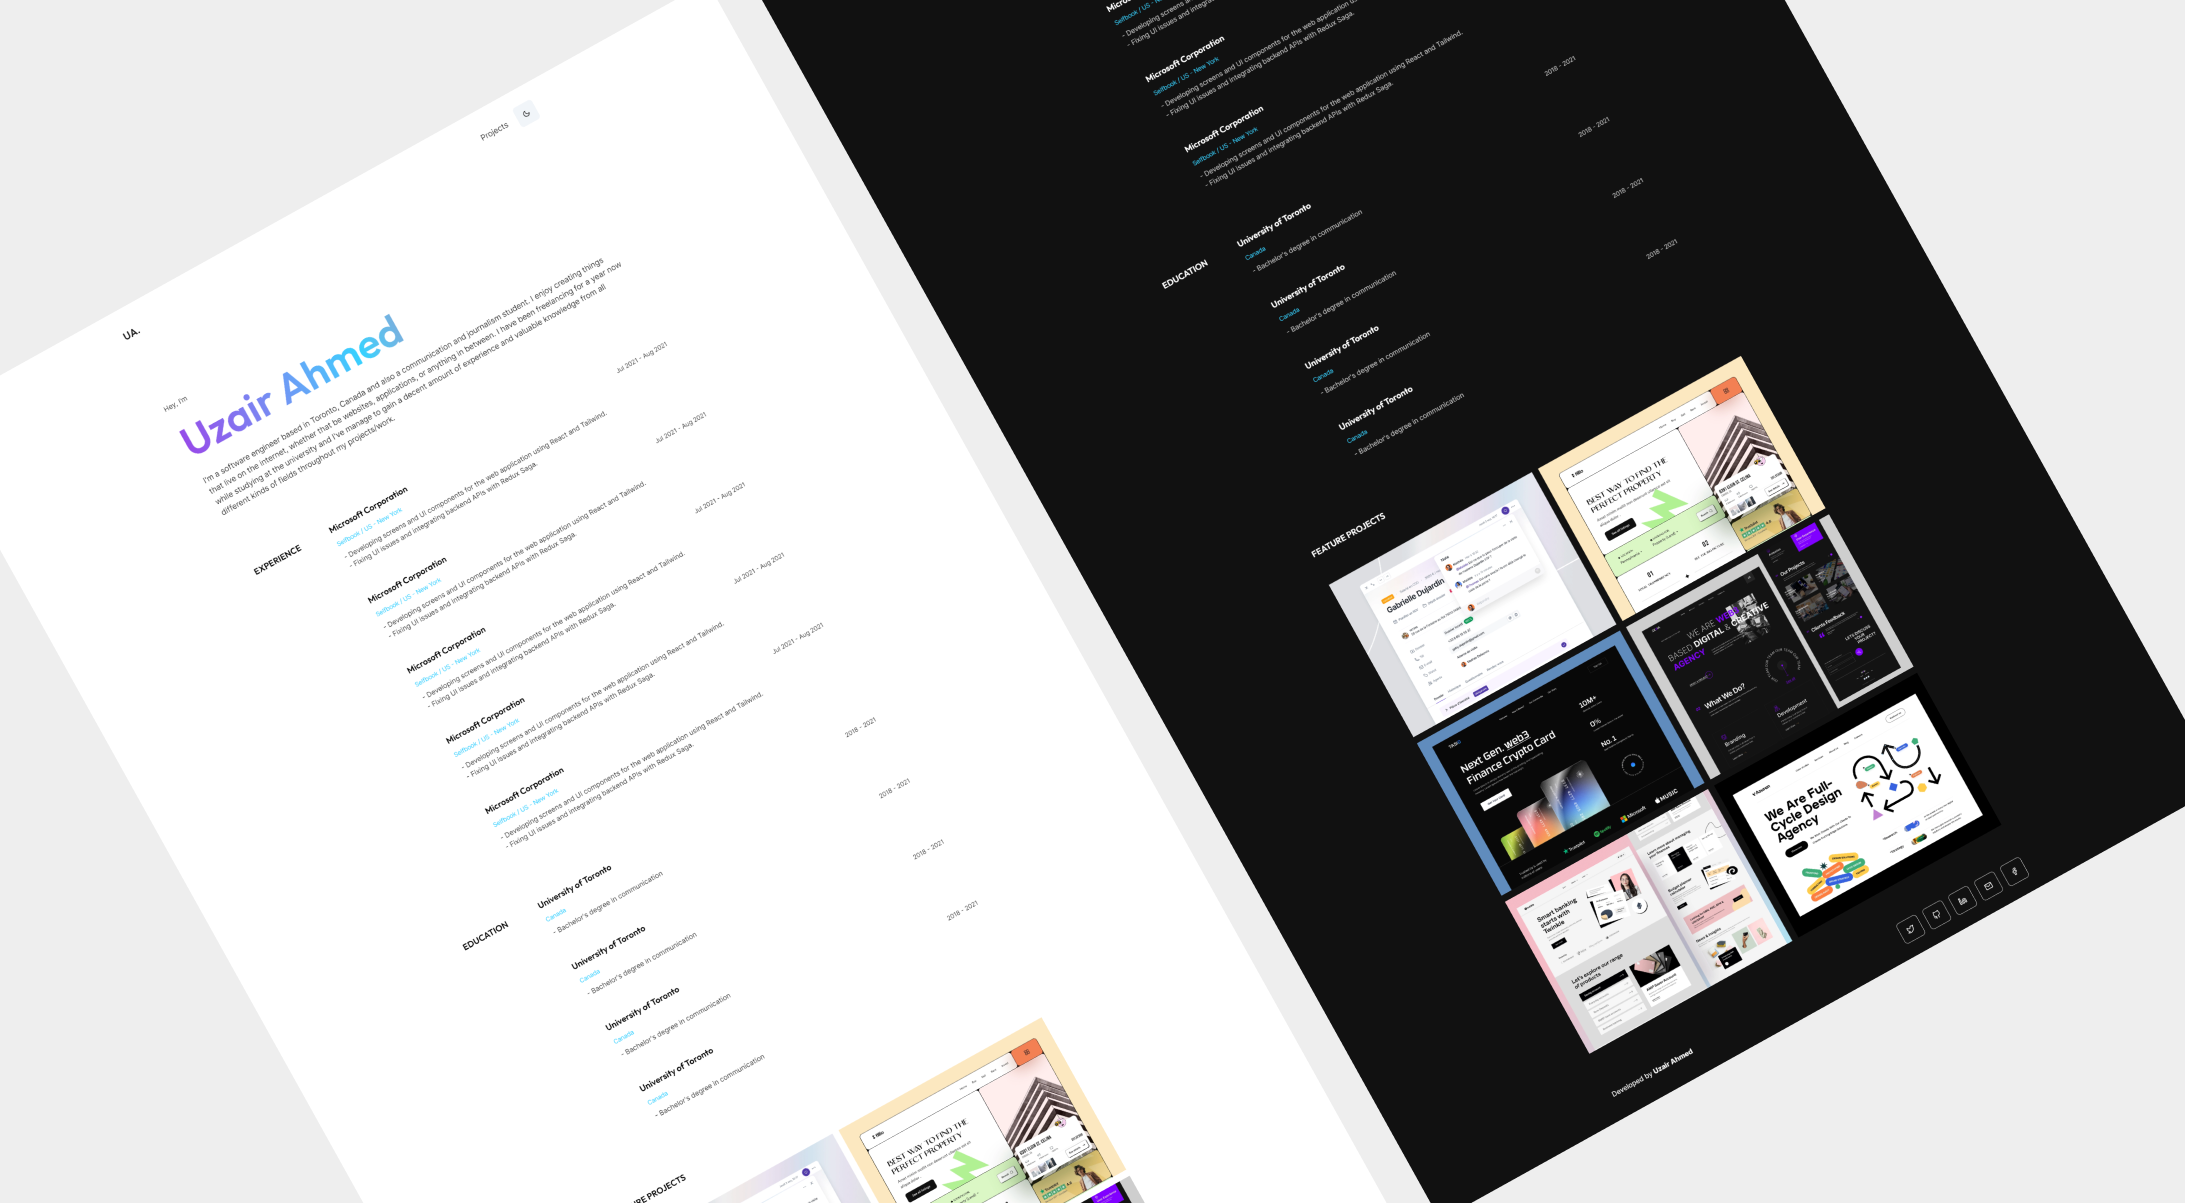
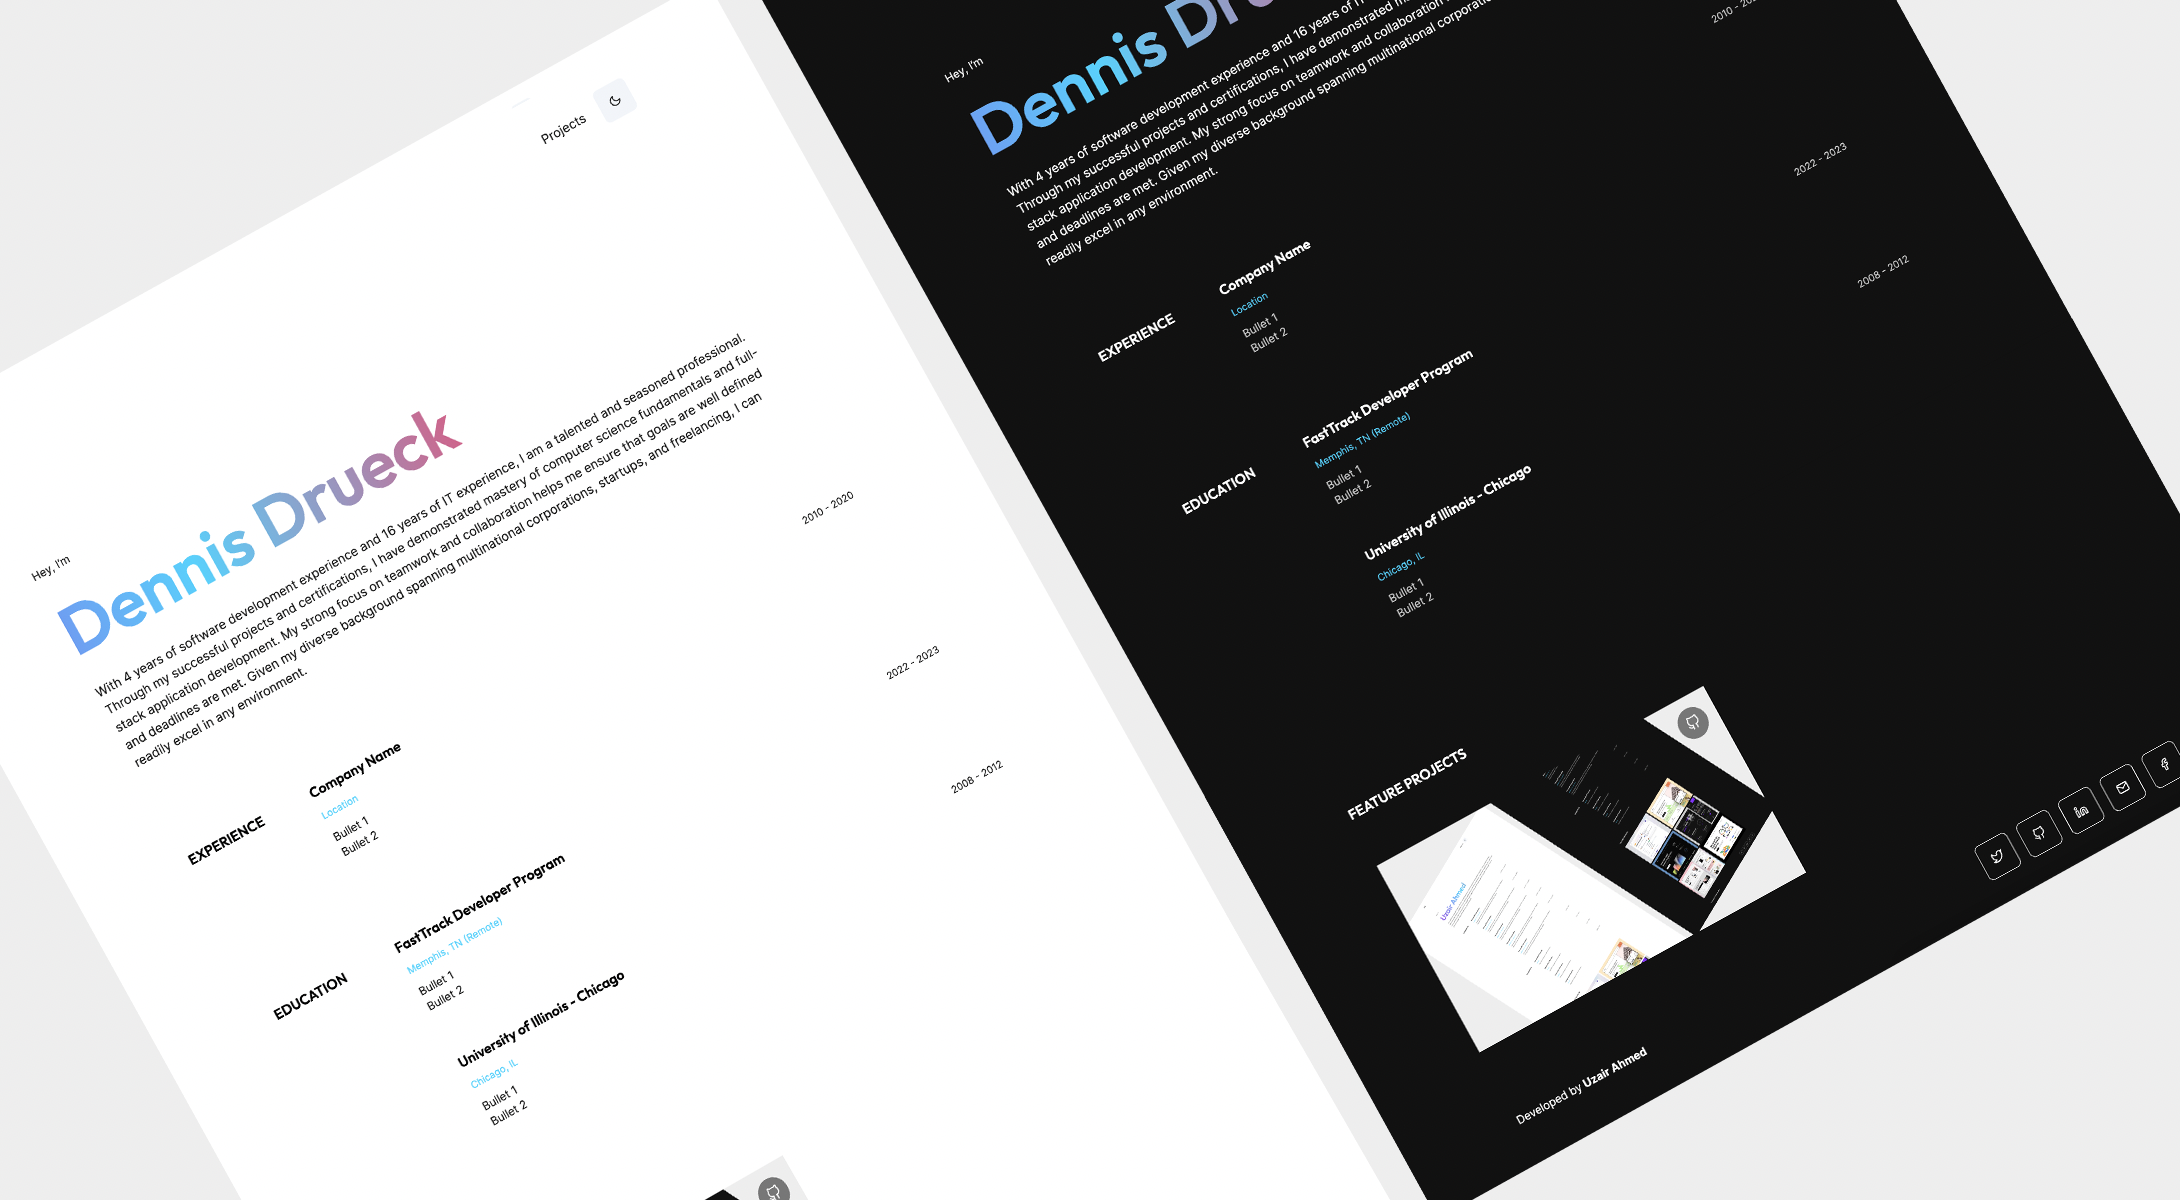
feat: updated info, projects

diff --git a/src/data/info.ts b/src/data/info.ts
@@ -7,28 +7,74 @@ export const info = {
 
     experience: [
         {
-            name: "Company Name",
-            location: "Location",
-            startDate: "2010",
-            endDate: "2020",
-            description: ["Bullet 1", "Bullet 2"],
+            title: "Full-Stack Developer",
+            name: "Self-Employed",
+            location: "Naperville, IL",
+            startDate: "10/21",
+            endDate: "Present",
+            description: [
+                "Distill requirements in collaboration with product teams, identifying highest value features to speed development.",
+                "Facilitate millions of dollars in revenue and top SERP rankings via optimized applications.",
+                "Iterate rapidly with Agile sprints to complete features incrementally.",
+                "Implement CI/CD pipelines with Git and GitHub to easily deploy builds in seconds",
+                "Maximize code reuse by following proven standards: DRY, SOLID, YAGNI.",
+                "Resolve bottlenecks and bugs rapidly using DevTools for debugging and performance testing.",
+            ],
+        },
+        {
+            title: "SaaS Interactivity Specialist",
+            name: "Text2Drive",
+            location: "Chicago, IL",
+            startDate: "2/19",
+            endDate: "10/21",
+            description: [
+                "Restructured widget deployment pipeline and overhauled assets using JavaScript, HTML, CSS and Bootstrap, drastically improving client and user experiences.",
+                "Reduced widget time-to-delivery by 50% after increasing component reusability and expediting requirements discovery with a hands-on, fail-fast approach.",
+                "Facilitated over 5 million dollars in yearly client revenue through expedient deployment and consistent user engagement.",
+                "Conserved 40 work-hours per month by automating toilsome tasks with Python and Selenium.",
+                "Enhanced client-experience with well-prepared proposals, backed by subject-matter expertise, analytics and market research.",
+                "Eliminated cross-company deployment issues through research and collaboration.",
+            ],
         },
     ],
 
     education: [
         {
-            name: "FastTrack Developer Program",
-            location: "Memphis, TN (Remote)",
-            startDate: "2022",
-            endDate: "2023",
-            description: ["Bullet 1", "Bullet 2"],
+            title: "FastTrack Java Program",
+            name: "Cook Systems",
+            location: "Memphis, TN",
+            startDate: "12/22",
+            endDate: "Present",
+            description: [
+                "Concentrated Java Frameworks and developer tools training",
+            ],
         },
         {
+            title: "Bachelor of Fine Arts",
             name: "University of Illinois - Chicago",
             location: "Chicago, IL",
-            startDate: "2008",
-            endDate: "2012",
-            description: ["Bullet 1", "Bullet 2"],
+            startDate: "08/08",
+            endDate: "05/12",
+            description: [
+                "Studied Web Design, Design Thinking, Perception Theory, Visual Communication",
+            ],
+        },
+    ],
+
+    certifications: [
+        {
+            title: "FreeCodeCamp.org",
+            location: "San Francisco, CA",
+            startDate: "06/21",
+            endDate: "12/22",
+            description: [
+                "Back-End and APIs: Express.js, MongoDB, Node.js",
+                "Relational Databases: PostgreSQL, Bash",
+                "Front-End Libraries: React.js, Redux, jQuery, Bootstrap",
+                "JavaScript: Data Structures and Algorithms",
+                "Python: Scientific Computing",
+                "Responsive Web Development: HTML5, CSS3",
+            ],
         },
     ],
 
@@ -44,7 +90,18 @@ export const info = {
             isFeatured: true,
             thumbnail: "/assets/images/astro-portfolio.png",
             githubUrl: "https://github.com/d5732/portfolio-astro",
-            liveUrl: "",
+        },
+        {
+            title: "TrapMonkie.io",
+            isFeatured: true,
+            thumbnail: "/assets/images/trapmonkie-site.png",
+            liveUrl: "https://trapmonkie.io/",
+        },
+        {
+            title: "EthereumHomies.com",
+            isFeatured: true,
+            thumbnail: "/assets/images/ethereumhomies-site.jpg",
+            liveUrl: "https://ethereumhomies.com/",
         },
     ],
 };

diff --git a/src/types/index.ts b/src/types/index.ts
@@ -15,6 +15,7 @@ export interface IContactProps {
 
 export interface IExperience {
     name: string;
+    title?: string;
     location: string;
     startDate: string;
     endDate: string;
